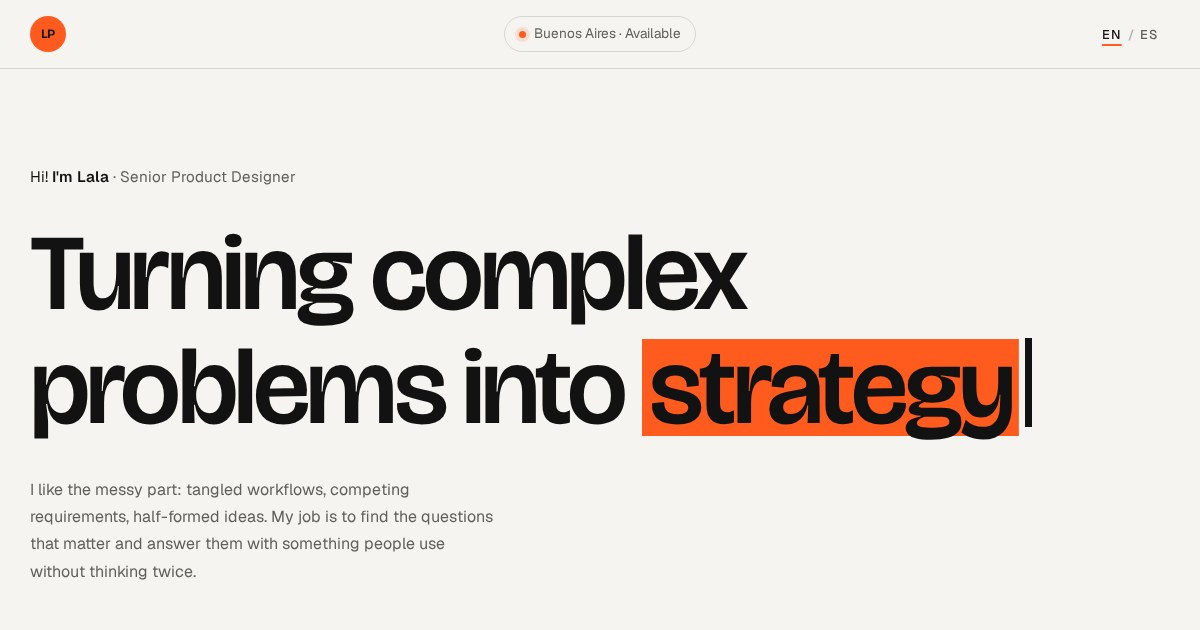
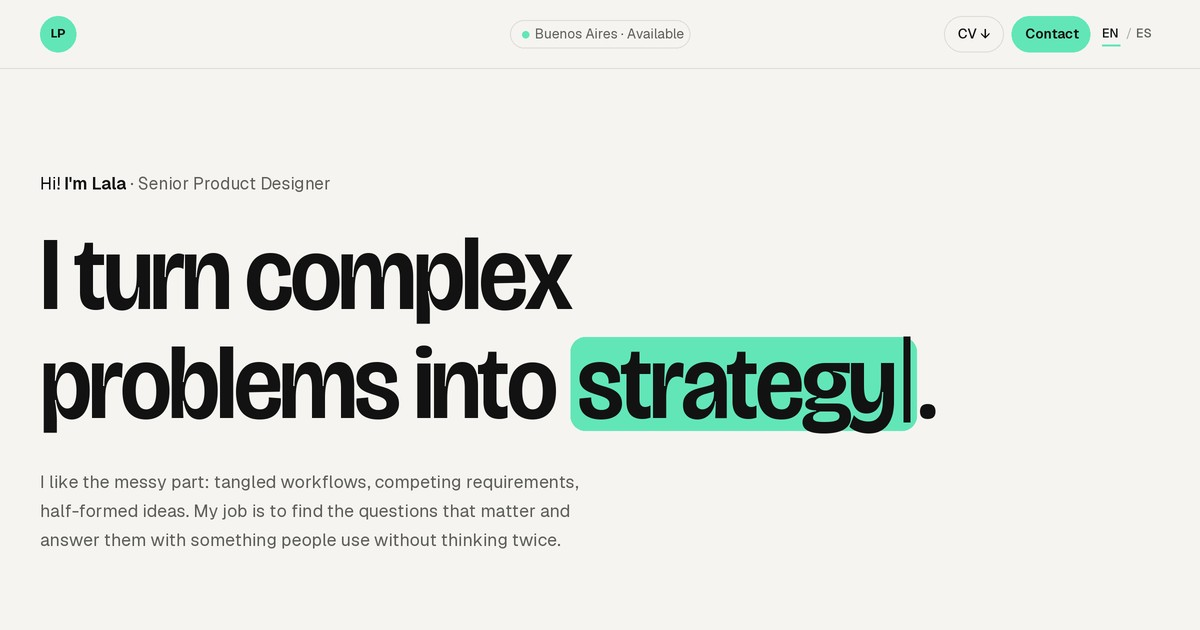
Home share image: mint + new headline

diff --git a/index.html b/index.html
@@ -10,7 +10,7 @@
   <meta property="og:title" content="Lala · Senior Product Designer">
   <meta property="og:description" content="Lala, Senior Product Designer in Buenos Aires. I like the messy part — and finding the questions that matter.">
   <meta property="og:url" content="https://lalapicoroso.com/">
-  <meta property="og:image" content="https://lalapicoroso.com/assets/og/home.jpg">
+  <meta property="og:image" content="https://lalapicoroso.com/assets/og/home.jpg?v=20261114">
   <meta property="og:image:width" content="1200">
   <meta property="og:image:height" content="630">
   <meta name="twitter:card" content="summary_large_image">
